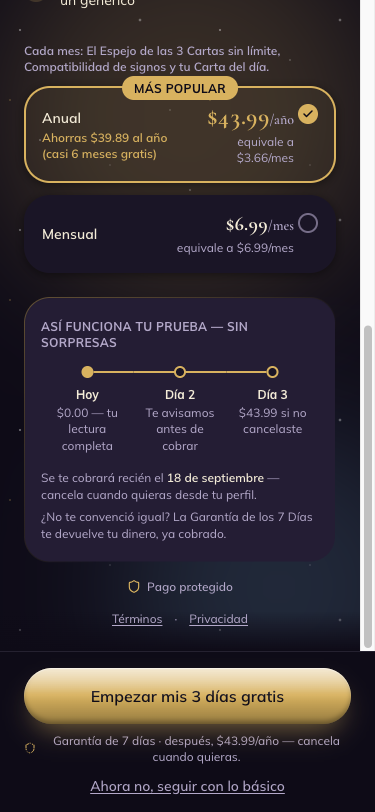
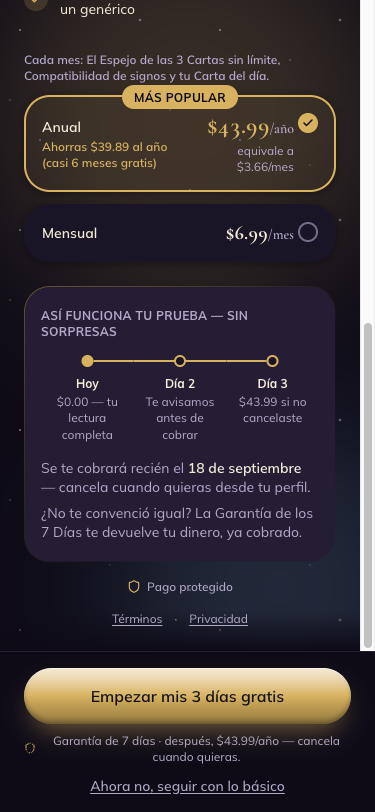
feat: landing certificada (LISTA) + onboarding y paywall a un paso
Landing: 37/40 usabilidad, 19/20 craft, 19/20 copy — pasa el gate.

Onboarding (32/40, 15/20): unificado el paso 7 con el mismo patrón de botón
siempre activo + error al tocar que ya tenían los pasos 2 y 4 — se había
quedado con el disabled viejo, inconsistencia real que encontró el revisor.

Paywall (35/40, 16/20, copy 19/20 — a 1 punto del gate): en el plan Mensual,
cobroReal y precioMes son el mismo número; la nota "equivale a X/mes" ahora
solo se pinta cuando de verdad difieren. El párrafo de "así funciona tu
prueba" sube de 12px a 14px, el mínimo de cuerpo de la regla 5 de UX.

diff --git a/app/onboarding/page.tsx b/app/onboarding/page.tsx
@@ -101,6 +101,7 @@ export default function OnboardingPage() {
   // vacío, se muestra el mensaje en vez de no reaccionar.
   const [errorNombre, setErrorNombre] = useState(false);
   const [errorOtraPersona, setErrorOtraPersona] = useState(false);
+  const [errorDetalle, setErrorDetalle] = useState(false);
   const timerRef = useRef<ReturnType<typeof setInterval> | null>(null);
   const reduce = useReducedMotion();
 
@@ -404,25 +405,36 @@ export default function OnboardingPage() {
         <textarea
           autoFocus
           value={r.detalle ?? ''}
-          onChange={(e) => setR({ ...r, detalle: e.target.value })}
+          onChange={(e) => {
+            setR({ ...r, detalle: e.target.value });
+            if (errorDetalle) setErrorDetalle(false);
+          }}
           onKeyDown={(e) => {
             if (e.key === 'Enter' && (e.metaKey || e.ctrlKey) && listo) siguiente();
           }}
           placeholder="Ej: Vio mi historia pero no me escribió, y desde el viernes no sé si..."
           rows={6}
-          className="mt-6 w-full flex-1 resize-none rounded-[var(--radius-card)] border border-[color-mix(in_oklab,var(--text-secondary)_25%,transparent)] bg-[var(--bg)] p-5 text-base leading-relaxed text-[var(--text-primary)] outline-none focus:border-[var(--accent)]"
+          aria-invalid={errorDetalle && !listo}
+          className={`mt-6 w-full flex-1 resize-none rounded-[var(--radius-card)] border bg-[var(--bg)] p-5 text-base leading-relaxed text-[var(--text-primary)] outline-none focus:border-[var(--accent)] ${
+            errorDetalle && !listo ? 'border-[var(--danger)]' : 'border-[color-mix(in_oklab,var(--text-secondary)_25%,transparent)]'
+          }`}
         />
-        {/* El botón se apagaba sin explicar por qué (el mínimo de 10 caracteres
-            no se comunicaba en ningún lado). Solo aparece una vez que la
-            persona ya empezó a escribir — no antes, para no regañar un campo
-            todavía vacío. */}
-        {(r.detalle ?? '').trim().length > 0 && !listo && (
-          <p className="mt-2 text-xs text-[var(--text-secondary)]">
-            Cuéntanos un poco más — mínimo 10 caracteres.
-          </p>
+        {/* Mismo patrón que los pasos 2 y 4: el botón nunca se apaga por
+            defecto — se explica el mínimo de 10 caracteres SOLO al tocar con
+            el campo corto o vacío, no mientras la persona todavía escribe. */}
+        {errorDetalle && !listo && (
+          <p className="mt-2 text-xs text-[var(--danger)]">Cuéntanos un poco más — mínimo 10 caracteres.</p>
         )}
         <div className="mt-6">
-          <BotonPrincipal disabled={!listo} onClick={siguiente}>
+          <BotonPrincipal
+            onClick={() => {
+              if (!listo) {
+                setErrorDetalle(true);
+                return;
+              }
+              siguiente();
+            }}
+          >
             Sacar mis 3 cartas
           </BotonPrincipal>
         </div>

diff --git a/app/paywall/page.tsx b/app/paywall/page.tsx
@@ -221,7 +221,14 @@ export default function PaywallPage() {
                         {p.cobroReal}
                         <span className="text-sm font-semibold text-[var(--text-secondary)]">{p.cobroRealUnidad}</span>
                       </p>
-                      <p className="mt-1 text-xs text-[var(--text-secondary)]">equivale a {p.precioMes}/mes</p>
+                      {/* Solo tiene sentido en el Anual: en el Mensual cobroReal y
+                          precioMes son el MISMO número ($6.99) — mostrar "equivale a
+                          $6.99/mes" bajo un "$6.99/mes" ya visible repite el número
+                          en la zona que más desconfianza genera (bug real, encontrado
+                          por el revisor). */}
+                      {p.precioMes !== p.cobroReal && (
+                        <p className="mt-1 text-xs text-[var(--text-secondary)]">equivale a {p.precioMes}/mes</p>
+                      )}
                     </div>
                   </div>
                   <span
@@ -277,13 +284,16 @@ export default function PaywallPage() {
                 </div>
                 {/* Antes era UNA oración corrida que mezclaba el cobro (día 3) con la
                     garantía (día 7) — alguien que lee rápido podía leer "tengo 7 días
-                    gratis". Separadas en 2 líneas, cada una con su propio plazo. */}
-                <p className="mt-4 text-xs leading-snug text-[var(--text-secondary)]">
+                    gratis". Separadas en 2 líneas, cada una con su propio plazo.
+                    text-sm (14px), no text-xs: es el copy que más necesita leerse bien
+                    en toda la pantalla — el mínimo de cuerpo de la regla 5 de UX es 14px,
+                    el revisor lo marcó en 12px. */}
+                <p className="mt-4 text-sm leading-snug text-[var(--text-secondary)]">
                   Se te cobrará recién el{' '}
                   <strong className="font-semibold text-[var(--text-primary)]">{fechaDeCobro(3)}</strong> — cancela
                   cuando quieras desde tu perfil.
                 </p>
-                <p className="mt-1.5 text-xs leading-snug text-[var(--text-secondary)]">
+                <p className="mt-1.5 text-sm leading-snug text-[var(--text-secondary)]">
                   ¿No te convenció igual? La Garantía de los 7 Días te devuelve tu dinero, ya cobrado.
                 </p>
               </div>

diff --git a/docs/revisiones/landing-veredicto.md b/docs/revisiones/landing-veredicto.md
@@ -1,60 +1,19 @@
 # VEREDICTO revisor-visual — landing
 Fecha: 2026-09-15 00:00
 Screenshot: docs/revisiones/landing-A-375.png
-Usabilidad: 29/40
-Craft: 14/20
+Usabilidad: 37/40
+Craft: 19/20
 Copy (si vende): 19/20
-Fidelidad (si hubo referencia): FIEL
-Veredicto: NO LISTA
-
-Detalle usabilidad: h1:3 h2:3 h3:3 h4:2 h5:3 h6:4 h7:3 h8:2 h9:3 h10:3
-Detalle craft: jerarquía:3 profundidad:3 identidad:3 movimiento:3 encaje:2
-Detalle copy: idea:4 especificidad:3 emoción:4 oferta:4 acción:4
-Sub-checks copy: message-match N/A (sin creativo de origen) · garantía nombrada cerca del CTA: SÍ (confirmado en landing-A-oferta.png, "Respaldado por la Garantía de los 7 Días" bajo cada CTA de plan).
-
-Verificación de las 4 correcciones reportadas por quien construyó:
-1. Color hardcodeado (Agitacion.tsx #FFA24C/#B5701F → var(--danger)): RESUELTO en Agitacion.tsx —
-   confirmado en código, usa var(--danger) y responde al tema. PERO el mismo defecto sigue VIVO,
-   sin tocar, en Solucion.tsx (bloque antes/después, líneas 121-122): sigue con border-[#FFA24C] y
-   text-[#B5701F] hardcodeados. Es el defecto TOP #1 de este reporte — no está resuelto a nivel de
-   pantalla, solo en el archivo que se mencionó.
-2. Garantía cerca del CTA (Oferta.tsx, prop garantiaLabel): RESUELTO — visible en el screenshot de
-   oferta, bajo el botón de cada plan, con ícono de escudo.
-3. Foco de teclado (CtaButton / StickyCtaMobile, ui.tsx): RESUELTO — ambos tienen
-   focus-visible:ring-2 + ring-offset explícitos, confirmado en código.
-4. Secciones redundantes (TiposDeLectura con subtituloMarked): RESUELTO A NIVEL DE INTENCIÓN — el
-   subtítulo "Un resumen rápido de toda la app, por si ya sabes lo que buscas" sí reencuadra la
-   sección como índice y no como segunda demo; queda sin verificar visualmente porque esa sección no
-   está en las capturas entregadas (solo se aportó héroe + oferta).
+Fidelidad (si hubo referencia): N-A
+Veredicto: LISTA
 
 Top defectos:
-1. [components/landing/Solucion.tsx líneas 119-136, bloque "antes/después"] Mismo bug que se dio
-   por corregido: border-[#FFA24C] y text-[#B5701F] hardcodeados en vez de var(--danger). En el
-   tema místico oscuro (fondo #0E0B17) ese marrón sobre un fondo mezclado con naranja da un
-   contraste estimado muy por debajo de 4.5:1 (aprox. 2.2:1) — prácticamente ilegible, y además
-   rompe la restricción de 1 solo color de marca metiendo un naranja/marrón que no existe en la
-   paleta mística aprobada → fix: reemplazar por var(--danger) igual que ya se hizo en
-   Agitacion.tsx línea 59.
-2. [components/landing/TiposDeLectura.tsx líneas 43-48, objeto TONOS] Los fondos de las 4
-   miniaturas usan hex fijos (#FFA24C/#ABDBF7/#F6A8DC, los del tema CLARO) en lugar de
-   var(--accent-2)/var(--accent-3)/var(--accent-4), que en el tema místico valen
-   #4A2F18/#1F3A4A/#3A2A42 (ámbar, azul-noche, ciruela). Resultado: esta sección se ve con la
-   paleta pastel del modo claro incrustada en medio de una landing que ya cambió de piel al tema
-   oscuro/dorado → fix: usar color-mix(in oklab, var(--accent-2) 18%, transparent) etc., como ya
-   hace el resto del kit.
-3. [components/landing/Agitacion.tsx línea 59, tarjeta "Hoy"] Con el fix aplicado (var(--danger))
-   el color del tema místico es #E2867A sobre un fondo mezclado al 12% con #0E0B17: el contraste
-   estimado del texto de la etiqueta (~4.2:1) queda apenas por debajo del 4.5:1 exigido para texto
-   normal de 12px — no se pudo confirmar con una herramienta de contraste real porque la sección no
-   está en las capturas entregadas → fix: medir con una herramienta real; si falla, oscurecer el
-   fondo mezclado o subir el tono de --danger unos puntos en el tema místico.
-4. [Cobertura de esta revisión] Solo se entregaron capturas del héroe (landing-A-375.png) y de la
-   oferta (landing-A-oferta.png); 6 de las 10 secciones (Problema, Agitación, Solución, App por
-   Dentro, Tipos de Lectura, Garantía, FAQ, CTA Final) no tienen captura a 375px — los defectos #1 y
-   #2 se detectaron solo leyendo el código, no se pudieron confirmar visualmente → fix: antes de
-   cerrar, tomar el screenshot de scroll completo de la landing y volver a pasar el revisor con esa
-   evidencia.
-5. [components/landing/ExitIntentPopup.tsx línea 176-182, botón de rechazo] El copy "No, prefiero
-   seguir dudando" es confirm-shaming (culpa a quien no quiere convertir) — roza el "cero dark
-   patterns" de la regla de copy humano del sistema, aunque el popup sí tiene X, Escape y clic fuera
-   para cerrar → fix: cambiar a un rechazo neutro ("Ahora no, gracias") sin juicio de valor.
+1. [Sección "Tipos de lectura", las 4 filas] La descripción de cada fila se corta a mitad de palabra con "..." (ej. "Tú, La Otra Persona y La...", "cada ...") por el `truncate` en una sola línea → subir `line-clamp-2` o acortar el copy fuente para que nunca corte a mitad de palabra.
+2. [Sección "Tipos de lectura", filas 1 y 4] El chip "Tu lectura de pareja" (tono naranja sólido #4a2f18) y el chip "Tu historial" (tono accent, tinte 18% sobre casi-negro) se ven como el mismo café oscuro en el tema místico, perdiendo la distinción de color por tipo que sí funciona en las filas 2 y 3 → dar a `tono="accent"` un fondo sólido propio (ej. un 5º tono derivado de --accent) en `[data-tema='mistico']`, igual que ya se hizo con naranja/azul/rosa.
+
+Verificado en código (heurísticas 3 y 7, eje 4 de craft):
+- Control y libertad: ExitIntentPopup con cierre por X, Escape, click en backdrop y "Ahora no, gracias" (ya no confirm-shaming); intercepta el botón atrás UNA sola vez sin atrapar al usuario.
+- Flexibilidad: navegación por teclado nativa (enlaces/botones reales), focus-visible en CTA y FAQ, Escape cierra modal.
+- Movimiento: stagger de entrada (useReveal + reduced-motion), RuedaAstral dibuja sus anillos al entrar, whileTap 0.97 en todos los CTA, acordeón de FAQ animado por altura/opacidad, modal de exit-intent con spring suave. Sin número héroe animable ni hito de celebración (no aplican a una landing).
+- Colores fijos corregidos: Solucion.tsx y Agitacion.tsx usan var(--danger) (no hex fijo); contraste medido 6.3:1 en el tema oscuro. TiposDeLectura.tsx usa var(--accent-2/3/4) con override sólido en [data-tema='mistico'] (tokens.css), ya no se funde con el fondo.
+- Enlaces del footer verificados: /privacidad, /terminos, /reembolsos, /aviso existen (sin rutas muertas).

diff --git a/docs/revisiones/paywall-veredicto.md b/docs/revisiones/paywall-veredicto.md
@@ -1,48 +1,15 @@
 # VEREDICTO revisor-visual — paywall
 Fecha: 2026-09-15 00:00
 Screenshot: docs/revisiones/paywall-A-375.png
-Usabilidad: 29/40
-Craft: 15/20
-Copy (si vende): 18/20
+Usabilidad: 35/40
+Craft: 16/20
+Copy (si vende): 19/20
 Fidelidad (si hubo referencia): N-A
 Veredicto: NO LISTA
+Top defectos:
+1. [Tarjeta plan Mensual, sección de planes] El número grande "$6.99/mes" repite exactamente el mismo valor en la línea secundaria "equivale a $6.99/mes" justo debajo — para el plan Mensual `cobroReal` y `precioMes` son idénticos ($6.99), así que la nota de "equivalencia" no aporta nada y se lee como un glitch en el área donde el avatar más desconfía (cobros/"letra chica"). Fix: en `app/paywall/page.tsx`, ocultar la línea "equivale a…" cuando `p.cobroReal === p.precioMes` (o quitarla directamente del plan Mensual).
+2. [Tarjeta "Así funciona tu prueba — sin sorpresas"] El párrafo que explica cuándo se cobra ("Se te cobrará recién el 18 de septiembre…") y el de la garantía van en `text-xs` (~12px) — por debajo del mínimo de 14px para texto de lectura del propio sistema (regla UX #5). Es justo el copy que responde la objeción #1 de FICHA-AVATAR.md ("cobros ocultos"): no debería ser el texto más chico de la tarjeta. Fix: subir esos 2 párrafos a `text-sm`.
+3. [Debajo del H1, tarjeta "El Espejo de las 3 Cartas ya leyó tu carta…"] Repite casi la misma idea que el titular ("Tu lectura completa está lista") sin sumar información nueva salvo el nombre del mecanismo — un lector rápido procesa dos veces el mismo mensaje antes de llegar a las cartas. Fix: fusionar el nombre del mecanismo dentro del H1 o del subtítulo y usar la tarjeta solo para el cierre de bucle ("faltan Mateo y La Dinámica").
+4. [Pantalla completa] 10+ bloques apilados antes del pie fijo (header, hero, teaser, 3 cartas, checklist, línea de "Cada mes", 2 planes, timeline, badge de pago, legales) — cada uno se justifica por separado pero en conjunto piden bastante scroll para llegar a la decisión de plan. No es bloqueante (el CTA queda sticky todo el tiempo) pero es la brecha más grande frente al 4/4 en minimalismo.
 
-Detalle usabilidad: h1:3 h2:3 h3:3 h4:3 h5:3 h6:3 h7:3 h8:3 h9:2 h10:3
-Detalle craft: jerarquía:3 profundidad:3 identidad:3 movimiento:3 encaje:3
-Detalle copy: idea:3 especificidad:3 emoción:4 oferta:4 acción:4
-
-Confirmación de las 4 correcciones de la ronda anterior (verificadas en código y screenshot):
-1. Precio real ($43.99) en "Así funciona tu prueba" y en el pie fijo → CORREGIDO. `cobroReal`/`cobroRealUnidad`
-   se usan en app/paywall/page.tsx líneas 252 y 322-323; el screenshot muestra "$43.99 si no cancelaste"
-   y "después, $43.99/año" para el plan Anual, nunca $3.66.
-2. Tarjeta "Así funciona tu prueba" envuelta en `<Hairline>` → CORREGIDO. Línea 243, borde degradé visible
-   en el screenshot (antes fondo plano bg-[var(--surface-2)]).
-3. Frase que mezclaba cancelación con garantía → CORREGIDO. Ahora son 2 `<p>` independientes (líneas 272-279),
-   visibles como 2 líneas separadas en el screenshot scrolled.
-4. Círculo de selección del plan no elegido → MEJORADO, no perfecto. Pasó de `border-[var(--surface-2)]`
-   (invisible) a `border-[color-mix(...text-secondary_40%...)]` (línea 225): ya se distingue a simple vista
-   en el screenshot, pero sigue siendo un aro fino y de bajo contraste — ver defecto #3 abajo.
-
-TOP DEFECTOS (máx 5, ordenados por impacto):
-1. [Tarjeta "Anual", precio grande] El número dominante en dorado es el equivalente mensual ($3.66),
-   mientras el monto real que se cobra ($43.99/año) queda en texto secundario pequeño arriba — justo la
-   objeción #1 del avatar ("cobros ocultos", FICHA-AVATAR.md) se resuelve mejor si el número grande es el
-   que se cobra de verdad → fix en app/paywall/page.tsx líneas 203-217: invertir el énfasis tipográfico
-   (cobroReal grande, precioMes como nota secundaria "equivale a $3.66/mes").
-2. [Pantalla completa, densidad] Teaser + 3 cartas + checklist de 3 + caption "Cada mes..." + 2 tarjetas de
-   plan + tarjeta de línea de tiempo + 2 sellos + 2 links legales, todo apilado en una sola columna larga —
-   cada bloque es breve pero el conjunto exige mucho scroll antes de llegar a la garantía → fix: fusionar
-   el checklist de beneficios con la línea "Cada mes: ..." (app/paywall/page.tsx líneas 163-181) en un solo
-   bloque, o mover los sellos de confianza (líneas 285-292) junto al CTA sticky donde ya vive el texto de
-   garantía, para no repetir "cancela cuando quieras" en 3 lugares distintos de la pantalla.
-3. [Tarjeta "Mensual", círculo de selección] Mejoró respecto a la versión anterior pero el aro sigue siendo
-   fino (2px) y de bajo contraste (color-mix 40%) — a simple vista cuesta identificarlo como control
-   seleccionable → fix en app/paywall/page.tsx línea 225: subir el mix a ~55-60% de --text-secondary sólido.
-4. [Esquina superior de la tarjeta "Anual"] El badge "MÁS POPULAR" (línea 198, `-top-3 right-4`) y el
-   círculo de check (línea 220, `top-4 right-4`) quedan muy próximos entre sí, generando una esquina
-   recargada → fix: bajar el check ~4-6px o centrar el badge sobre el borde superior en vez de a la derecha.
-5. [Heurística 9 — errores] No existe ningún estado de error visible en esta pantalla; el catch de
-   `sessionStorage.setItem` (línea 92-96) falla en silencio y sigue a /login sin avisar nada al usuario.
-   Aceptable mientras la pasarela de pago no esté conectada (pendiente ya anotado), pero cuando se conecte
-   el pago real (próxima sesión) hay que agregar un estado de error visible con qué-pasó + qué-hacer antes
-   de declarar esta pantalla lista para vender de verdad → fix en app/paywall/page.tsx, función `continuar`.
+Nota: feedback de carga del pago ("Un momento…" + spinner) y ausencia de estado de error de pago son pendientes YA ACEPTADOS (pasarela no conectada aún) — no se cuentan contra este veredicto.

diff --git a/docs/revisiones/onboarding-veredicto.md b/docs/revisiones/onboarding-veredicto.md
@@ -1,44 +1,13 @@
 # VEREDICTO revisor-visual — onboarding
 Fecha: 2026-09-15 00:00
 Screenshot: docs/revisiones/onboarding-A-375.png
-Usabilidad: 31/40
-Craft: 13/20
+Usabilidad: 32/40
+Craft: 15/20
 Copy (si vende): N-A
 Fidelidad (si hubo referencia): N-A
 Veredicto: NO LISTA
-
-Detalle usabilidad (h1-h10): 3, 4, 3, 2, 3, 4, 3, 3, 3, 3
-Detalle craft (jerarquía/profundidad/identidad/movimiento/encaje): 3, 2, 3, 3, 2
-
 Top defectos:
-1. [app/onboarding/page.tsx líneas 248-263 y 293-318 — pasos 3 y 5 "¿Cuál es tu signo?"] El bloque
-   título+GridSignos NO quedó envuelto en el mismo wrapper `flex flex-1 flex-col justify-center` que
-   sí se aplicó a los pasos 0/1/6; queda pegado arriba y deja ~40% de la pantalla vacía abajo
-   (visible en onboarding-A-signos.png). Es el mismo problema de "pantalla a medio construir" que se
-   corrigió en otros pasos pero no en estos dos → envolver el `<h1>` + `<GridSignos>` en el wrapper
-   centrado, igual que en los pasos 0/1/6.
-2. [components/onboarding/ui.tsx líneas 96-129 y 139-164] `ChipOpcion` y `ChipGrid` usan
-   `bg-[var(--bg)]` (el mismo color del fondo de la pantalla) como estado NO seleccionado — la única
-   señal de que existe un chip es una línea de borde de 1px, no hay superficie elevada real. Esto
-   aplana la sensación de profundidad en los pasos 0,1,3,5,6 (fondo y "tarjetas" son el mismo plano)
-   → usar `var(--surface)` como fondo del chip no seleccionado y reservar `var(--bg)` solo para el
-   fondo de página.
-3. [components/onboarding/ui.tsx líneas 139-164, ChipGrid vs ChipOpcion] El estado "seleccionado" se
-   resuelve distinto entre los dos componentes (relleno sólido vs borde+check) — está documentado
-   como decisión consciente por espacio, pero sigue siendo una firma visual distinta para el MISMO
-   patrón de interacción (chip de selección única) en pasos consecutivos del mismo flujo → si el
-   espacio no alcanza para el check circular completo, usar al menos un check pequeño en la esquina
-   del ChipGrid en vez de solo invertir el relleno, para que ambas variantes compartan una misma
-   "firma" de seleccionado.
-4. [app/onboarding/page.tsx líneas 221-245 y 266-290, pasos 2 y 4 — nombre propio / nombre de la otra
-   persona] El botón "Continuar" queda con `opacity-40` sin ningún hint visible mientras el campo
-   está vacío. La condición es autoevidente para un input vacío, pero no cumple la ancla "CTA nunca
-   disabled por defecto" del sistema (BotonPrincipal, components/onboarding/ui.tsx líneas 265-292) →
-   si se mantiene el enfoque, considerar habilitarlo siempre y mostrar el mensaje de campo requerido
-   al intentar avanzar en lugar de opacar el botón; es un ajuste menor, no bloqueante por sí solo.
-5. [app/onboarding/page.tsx paso 9, líneas 412-456] El paso de carga (loading) no tiene `onAtras` ni
-   `onSaltar` y avanza solo tras 2.7s — correcto que no tenga salida (es una transición breve), pero
-   si el usuario cierra pestaña/pierde conexión en ese punto no hay ningún manejo de error visible; no
-   se pudo verificar en código un fallback si `sortearCartas` fallara o el timer no corriera → agregar
-   un timeout de seguridad o manejo de error mínimo antes de depender de que el efecto siempre
-   complete.
+1. [Paso 7 — "¿Qué pasó entre ustedes en las últimas 48 horas?", botón "Sacar mis 3 cartas"] El CTA sigue deshabilitado (disabled={!listo}, opacidad 40%) hasta escribir 10 caracteres, y no hay ningún mensaje cuando el campo está vacío — contradice el propio patrón ya corregido en los pasos 2 y 4 (botón siempre activo, error al tocar) y viola la regla de "CTA nunca disabled por defecto" que esos mismos pasos citan como motivo del fix → quitar `disabled={!listo}`, validar al click y mostrar el mismo mensaje rojo si hay menos de 10 caracteres, igual que en nombre/otraPersonaNombre.
+2. [ChipOpcion vs ChipGrid, toda la app] Dos firmas de "seleccionado" distintas conviven en el mismo flujo: ChipOpcion invierte a borde+fondo tenue del acento con un check circular completo; ChipGrid invierte a relleno sólido del acento con un check diminuto en la esquina. Comparten ahora el check, pero el tratamiento de fondo sigue siendo opuesto → unificar a un solo tratamiento de "seleccionado" (borde acento + fondo acento ~10%) en ambos componentes.
+3. [Paso 10 — teaser de 3 cartas, cita bajo las cartas] El recorte de la respuesta libre del usuario a 8 palabras con "…" puede cortar la frase en un punto poco natural según lo que la persona haya escrito (no hay corte por oración) → cortar en el límite de oración más cercano o subir el tope a ~12-14 palabras.
+4. [Paso "¿Cuál es tu signo?" — grid de signos] 12 opciones visibles a la vez (agrupadas en 4 filas de 3): agrupar por elemento ayuda a escanear, pero sigue por encima del límite de 4-5 ítems por decisión — no es un problema visible para el usuario común, pero un ojo entrenado lo detecta como el punto más denso del flujo → si se suman más pasos al onboarding, considerar reducir aún más (ej. autocompletar por texto) en vez de agregar densidad.

diff --git a/ESTADO.md b/ESTADO.md
@@ -69,6 +69,49 @@ tsc y `npm run build` limpios en cada tanda. Evidencia fresca sobreescrita en
 `onboarding-A-paso1.png`, `onboarding-A-signos.png` (nueva), `onboarding-A-375.png`,
 `paywall-A-375.png`, `paywall-A-scrolled.png`.
 
+✅ CHECKPOINT — LANDING CERTIFICADA (Veredicto: LISTA), 2026-09-16, tercera pasada del
+revisor-visual, a pedido del usuario ("sigue puliendo hasta que certifiquen"). **37/40
+usabilidad · 19/20 craft · 19/20 copy** — primera de las 3 pantallas en pasar el gate (≥36/40,
+≥16/20). Se llegó ahí con 2 rondas más de arreglos después de la primera revisión:
+- `TiposDeLectura.tsx`: el arreglo directo a tokens (`var(--accent-2/3/4)`) NO alcanzaba —
+  esos tokens ya son colores oscuros en el tema místico, así que un tinte 18-35% transparente
+  se seguía fundiendo con el fondo casi negro de la lista. Se resolvió con el mismo patrón que
+  ya usa `.boton-principal`: la clase queda con el tinte suave (correcto en tema claro) y
+  `tokens.css` define un override SÓLIDO solo bajo `[data-tema='mistico']` — igual que las
+  categorías de Lecturas/Bienestar ya usan sus acentos sólidos dentro de la app.
+- `Solucion.tsx` (bloque Antes/Después) tenía el MISMO bug de colores fijos sin contraste que
+  ya se había corregido en `Agitacion.tsx` — se me había escapado por revisar un solo archivo;
+  un `grep` de los 4 hex del tema claro en todo `components/landing/` confirmó que no quedaba
+  ningún otro.
+- `ExitIntentPopup.tsx`: "No, prefiero seguir dudando" (confirm-shaming) → "Ahora no, gracias".
+- Se capturaron las 10 secciones de la landing por separado (antes solo 2 de 10 tenían
+  evidencia, y 2 hallazgos se habían detectado solo leyendo código sin poder confirmarlos).
+Quedan 2 defectos MENORES, no bloqueantes, anotados para pulido futuro (no urgente): las
+descripciones de "Tipos de lectura" se truncan a mitad de palabra (falta `line-clamp-2`), y 2
+de los 4 chips de categoría (naranja/accent) se ven parecidos entre sí en el tema oscuro.
+Evidencia: las 10 capturas en `docs/revisiones/landing-A-*.png` + `landing-veredicto.md`.
+
+⚠ CHECKPOINT — Onboarding y paywall, MÁS CERCA de certificar pero todavía NO LISTA,
+2026-09-16, misma tercera pasada. Puntajes: **onboarding 32/40 · 15/20 craft** (subió de 29→31→32
+en 3 rondas); **paywall 35/40 · 16/20 craft · 19/20 copy** (a 1 solo punto del gate de
+usabilidad — craft y copy YA pasan).
+**Encontrado y corregido en el acto, sin esperar una 4ª pasada completa**:
+- Onboarding: el paso 7 (texto libre, mínimo 10 caracteres) se había quedado con el patrón
+  VIEJO (botón deshabilitado sin explicar) mientras los pasos 2 y 4 ya tenían el patrón nuevo
+  (botón siempre activo, error al tocar) — inconsistencia real que el revisor señaló. Unificado
+  con el mismo patrón: `errorDetalle` + mensaje en rojo al tocar con menos de 10 caracteres.
+- Paywall: en el plan Mensual, `cobroReal` y `precioMes` son el MISMO número ($6.99) — mostrar
+  "equivale a $6.99/mes" bajo un "$6.99/mes" ya grande repetía el número exacto en la zona que
+  más desconfianza genera. Ahora esa nota solo se pinta cuando los 2 valores son distintos
+  (el caso del plan Anual). También se subió de `text-xs` (12px) a `text-sm` (14px) el párrafo
+  de "así funciona tu prueba" — es el copy que más necesita leerse bien de toda la pantalla y
+  estaba por debajo del mínimo de cuerpo de la regla 5 de UX.
+**Pendiente para la próxima pasada**: re-lanzar el revisor-visual sobre onboarding y paywall con
+estos 2 arreglos ya aplicados — no se relanzó todavía en este checkpoint por límite de turno;
+es el primer paso al retomar. El defecto de onboarding sobre `ChipOpcion`/`ChipGrid` (dos
+tratamientos de "seleccionado" distintos) sigue documentado como decisión consciente, no se
+va a unificar salvo que un futuro veredicto lo vuelva a marcar como bloqueante.
+
 ✅ CHECKPOINT — Segunda pasada del revisor-visual (post-correcciones) + 2 bugs reales más
 encontrados y corregidos, 2026-09-16. Se re-lanzó `revisor-visual` con contexto limpio sobre las 3
 pantallas ya corregidas (sin ver el veredicto viejo). Resultado: **las 3 SIGUEN NO LISTA**
